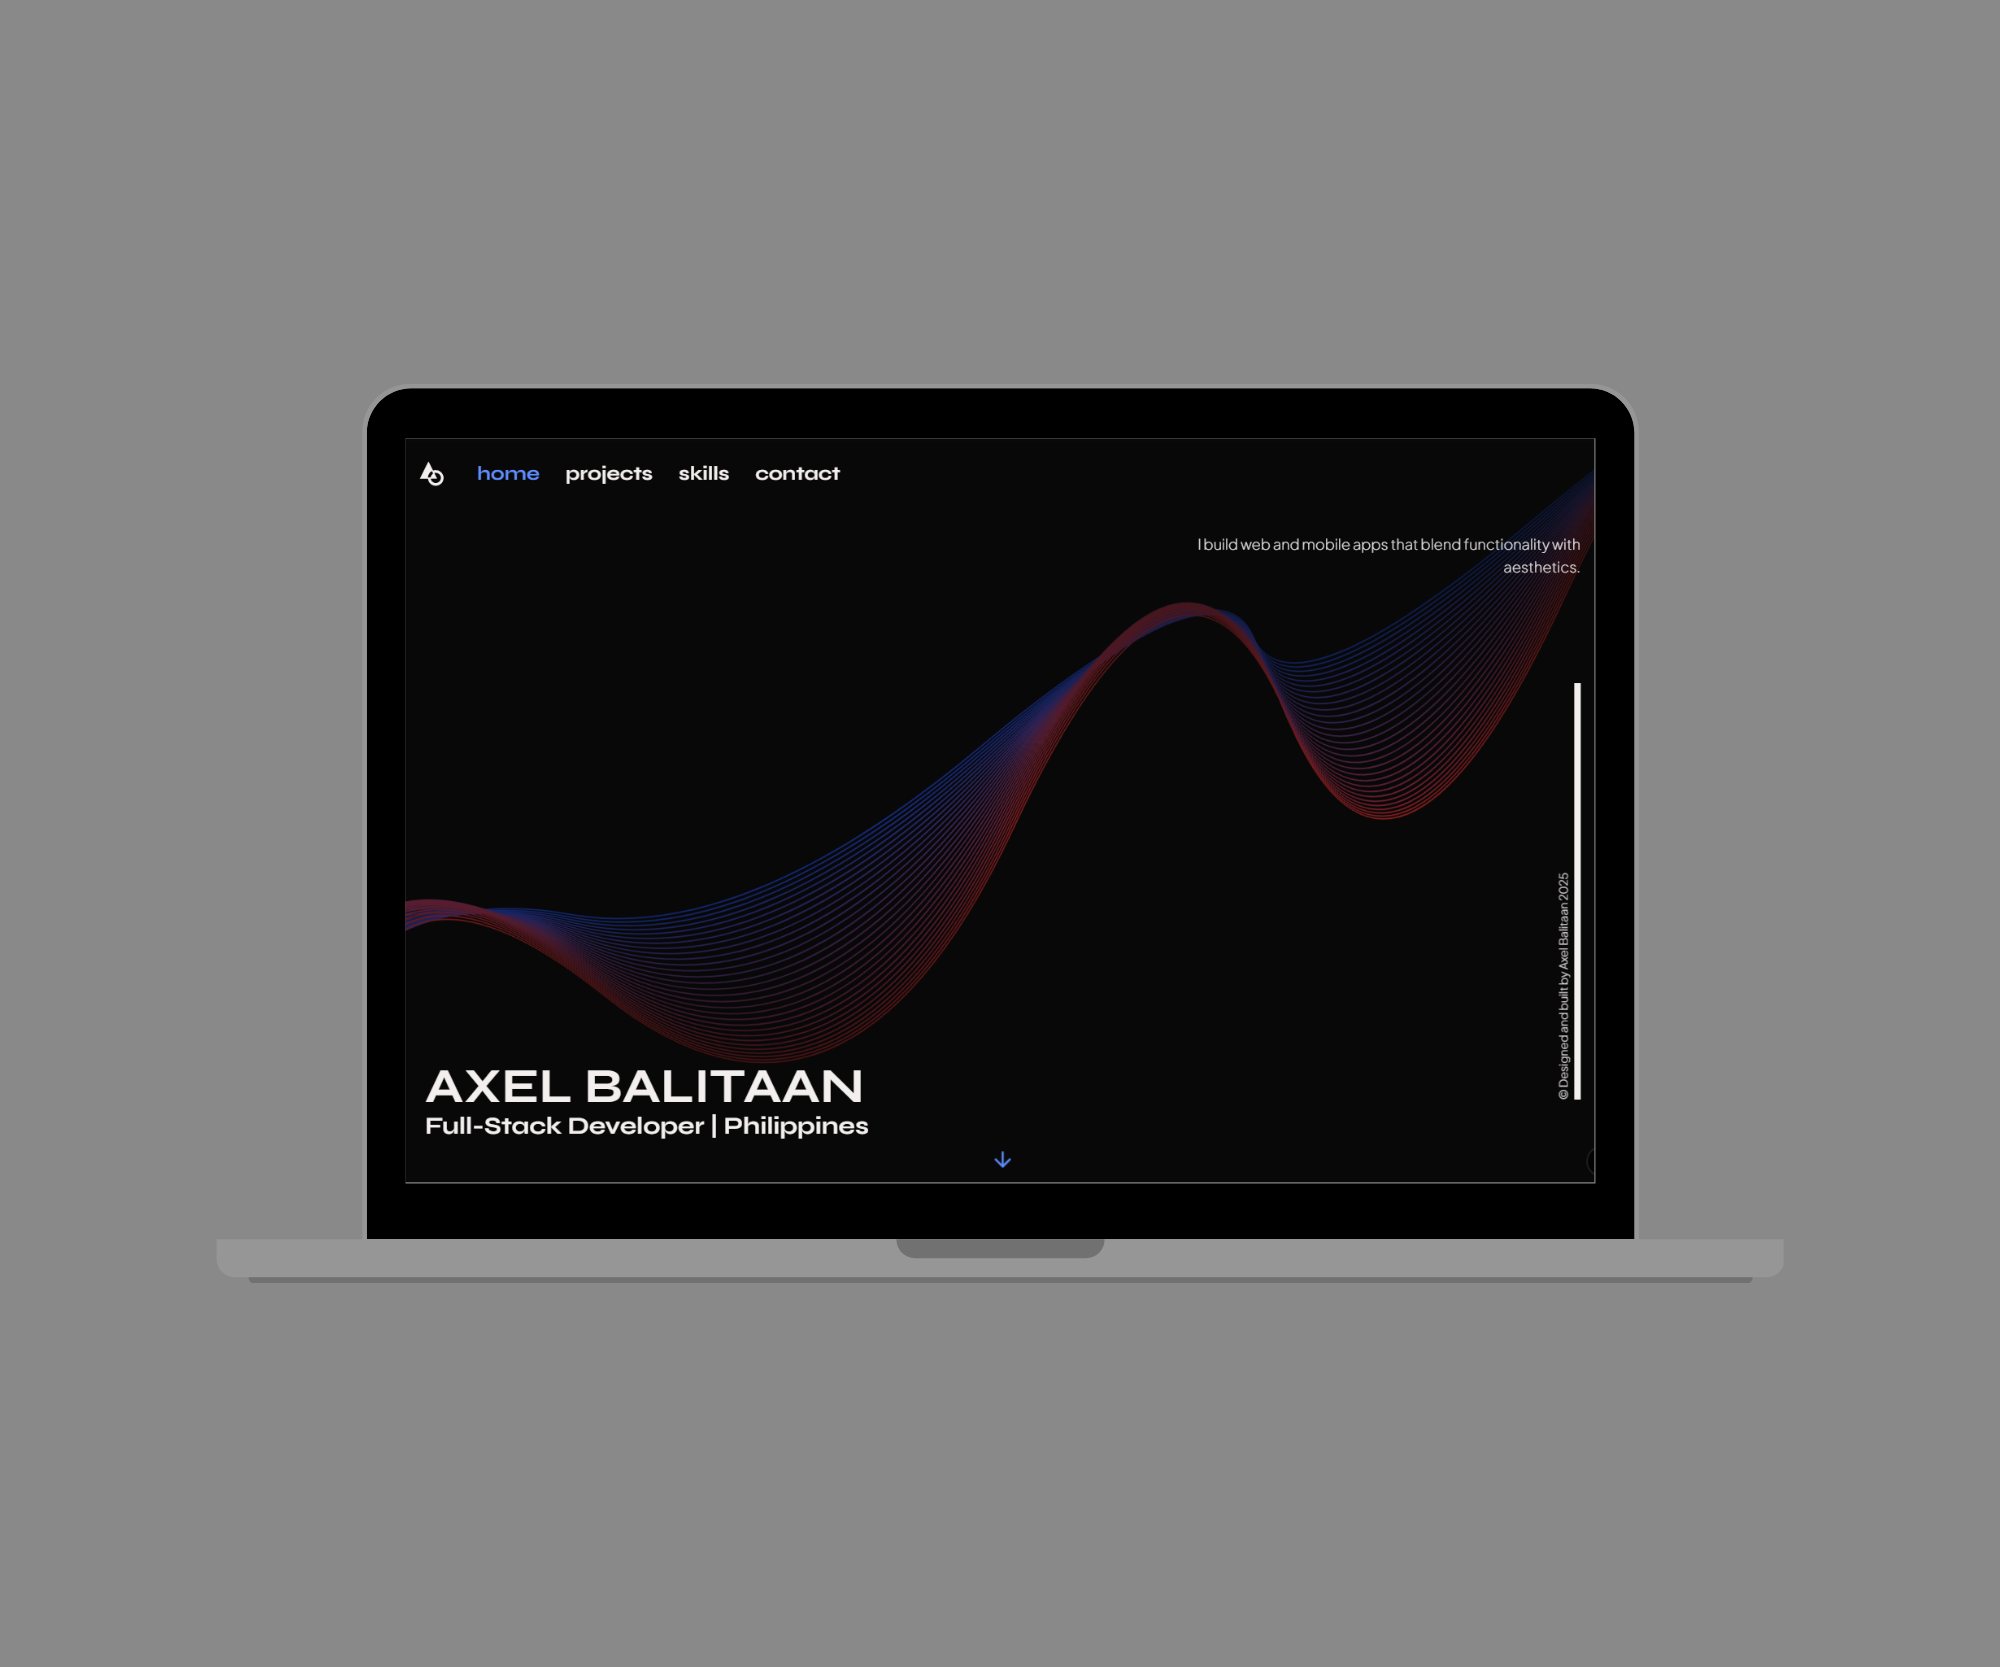
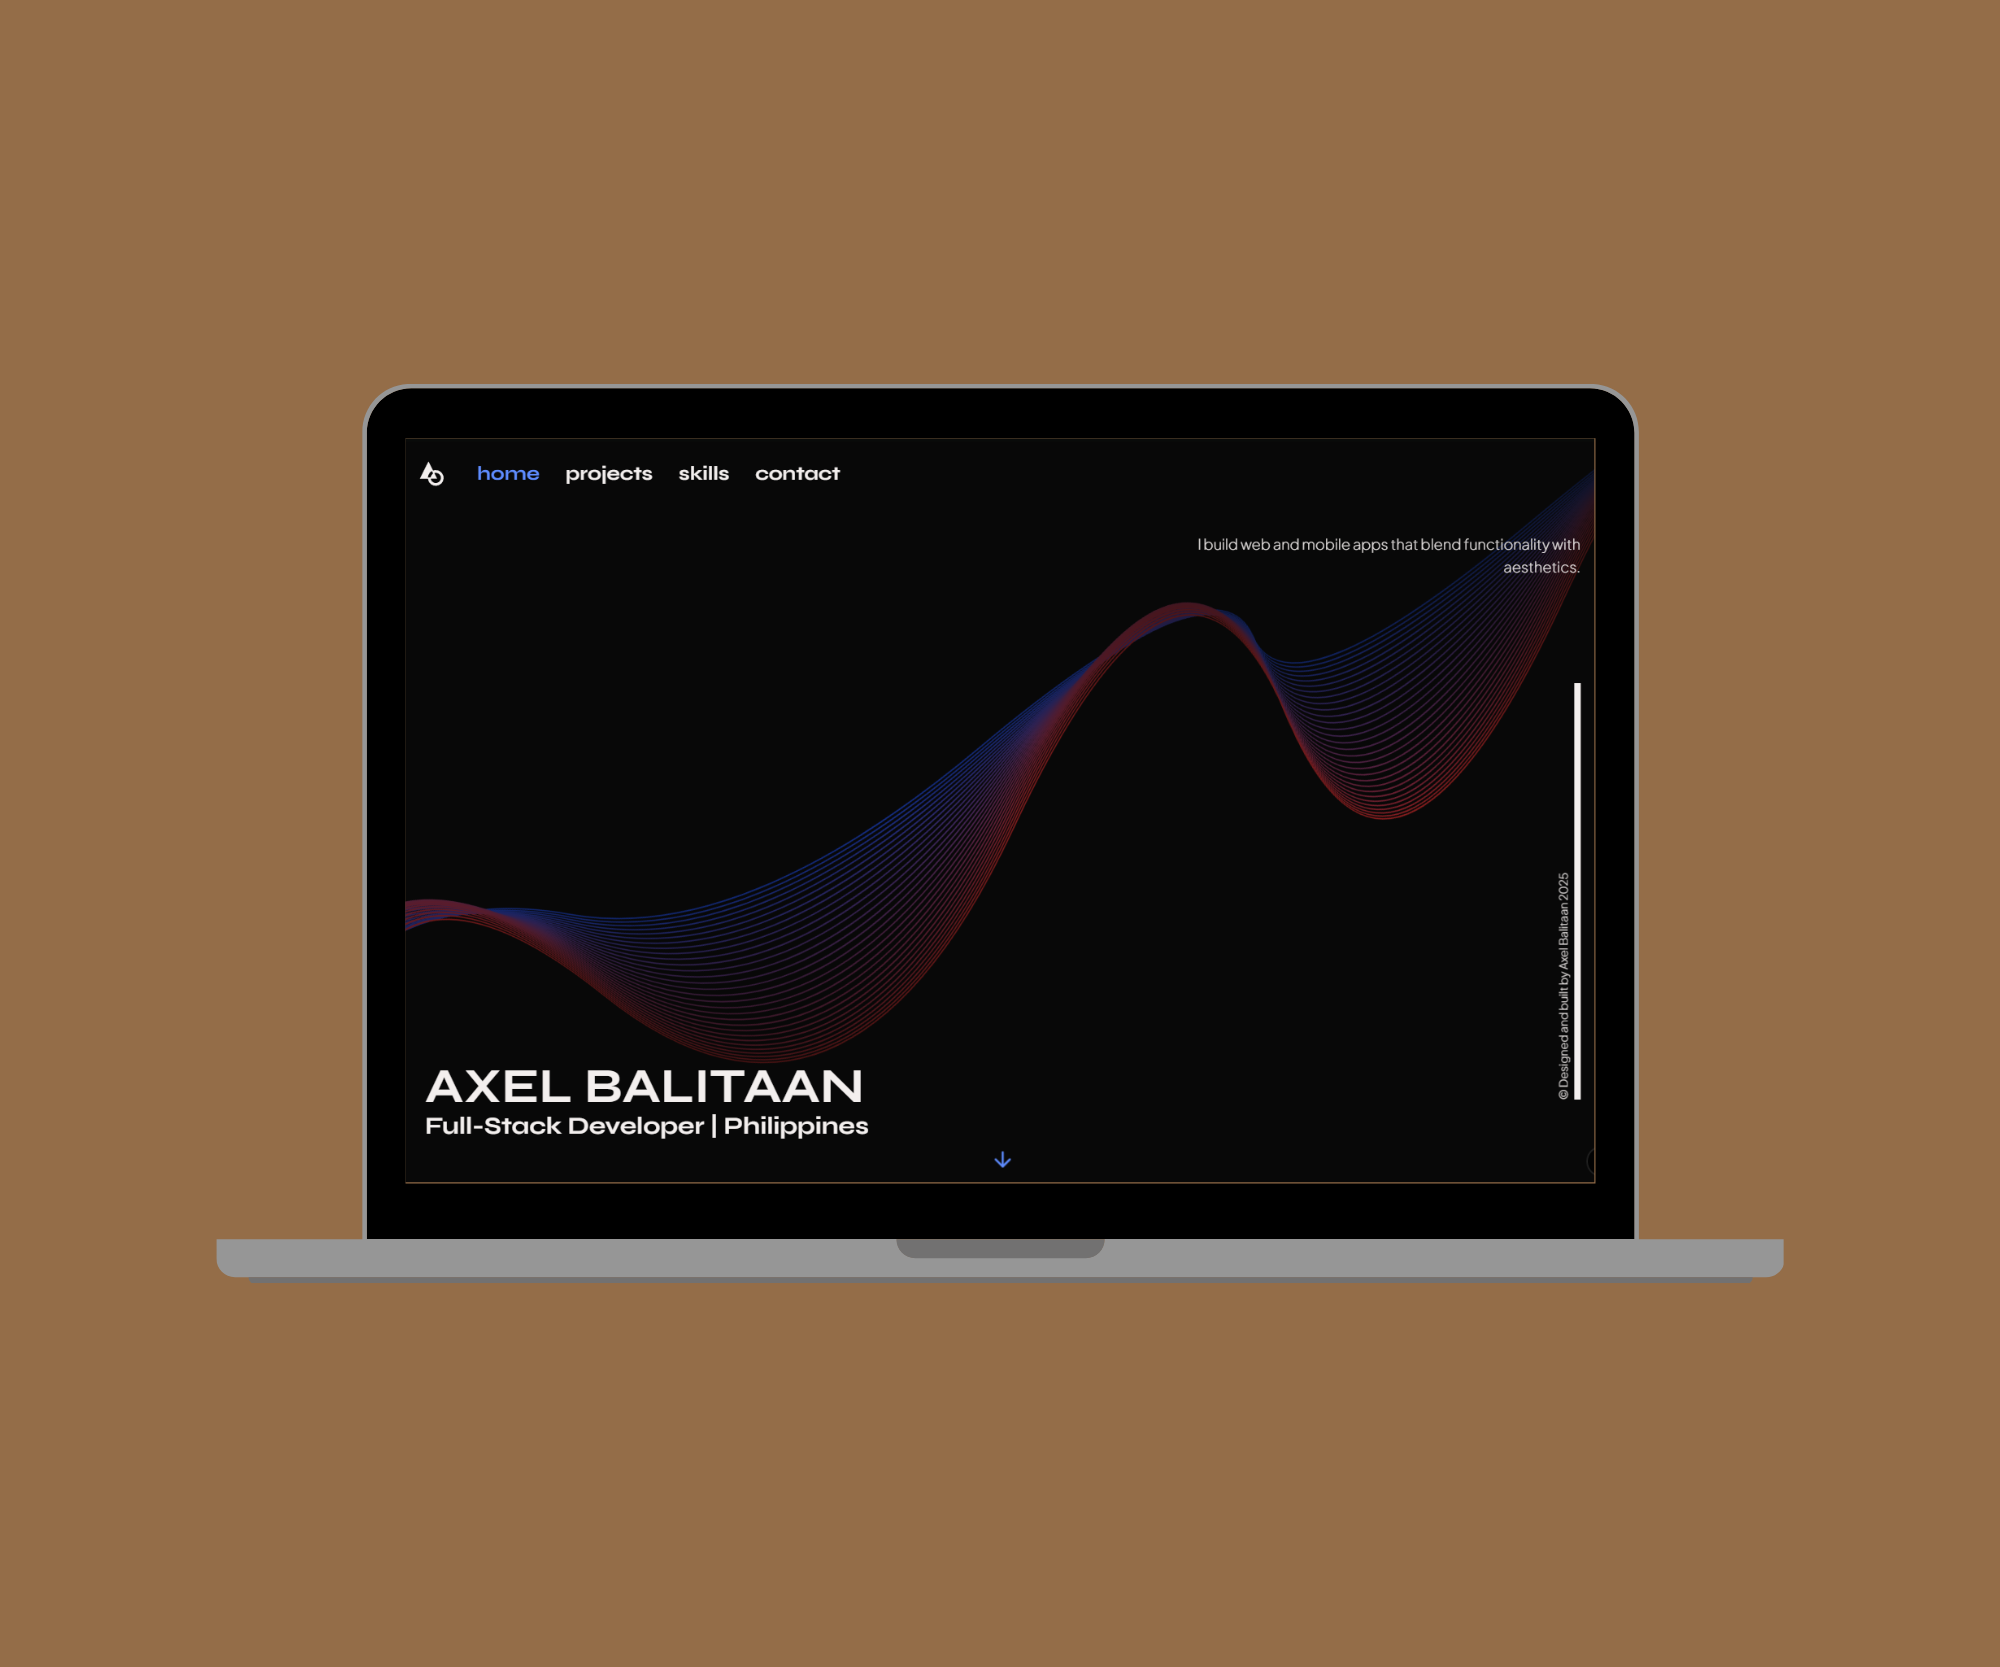
feat: added snap scroll

diff --git a/app/sections/Projects.jsx b/app/sections/Projects.jsx
@@ -124,8 +124,8 @@ export default function Projects() {
         </FadeScroll>
       )}
 
-      <div className="h-19/20 no-scrollbar flex items-center overflow-auto transition-all">
-        <div className="ml-auto mr-auto flex w-fit items-center gap-4 px-4">
+      <div className="no-scrollbar flex h-4/5 items-center overflow-visible transition-all">
+        <div className="no-scrollbar ml-auto mr-auto flex h-full w-fit snap-x snap-mandatory items-center gap-4 overflow-x-auto px-4">
           {projectList.map((project, index) => {
             const { zIndex, className } = getCardStyles(index);
 
@@ -133,7 +133,7 @@ export default function Projects() {
               <div
                 key={index}
                 ref={el => (cardRefs.current[index] = el)}
-                className="snap-start"
+                className="snap-center"
                 style={{ zIndex }}
                 onClick={() => {
                   const url = project.prodLink || project.repoLink;

diff --git a/app/page.js b/app/page.js
@@ -37,13 +37,13 @@ export default function Home() {
 
       {/* Sticky section */}
 
-      {/* <section className="sticky top-0 z-0 h-[125dvh] snap-center">
+      <section className="sticky top-0 z-0 h-[125dvh] snap-center">
         <Skills />
       </section>
 
       <section className="sticky z-40 h-[100dvh] snap-center">
         <Contact />
-      </section> */}
+      </section>
     </div>
   );
 }

diff --git a/app/utils/ProjectList.js b/app/utils/ProjectList.js
@@ -25,7 +25,7 @@ const projectList = [
   },
   {
     title: "Portfolio",
-    color: "#2d2d2d",
+    color: "#946d48",
     stack: ["NextJS", "Tailwind"],  // Note: also fixed stack array contents
     desc: "A portfolio site showcasing professional work, projects, and skills. Designed for easy navigation and creative layouts.",
     imagePath: "portfolio.png"
